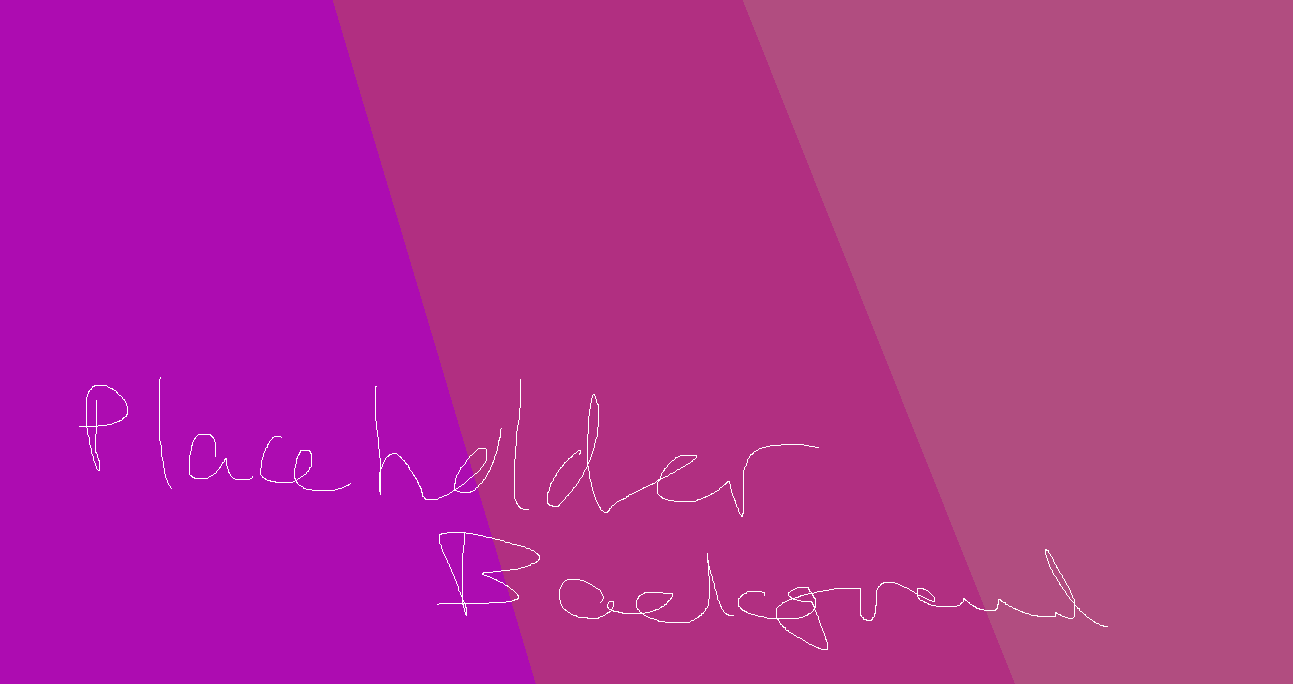
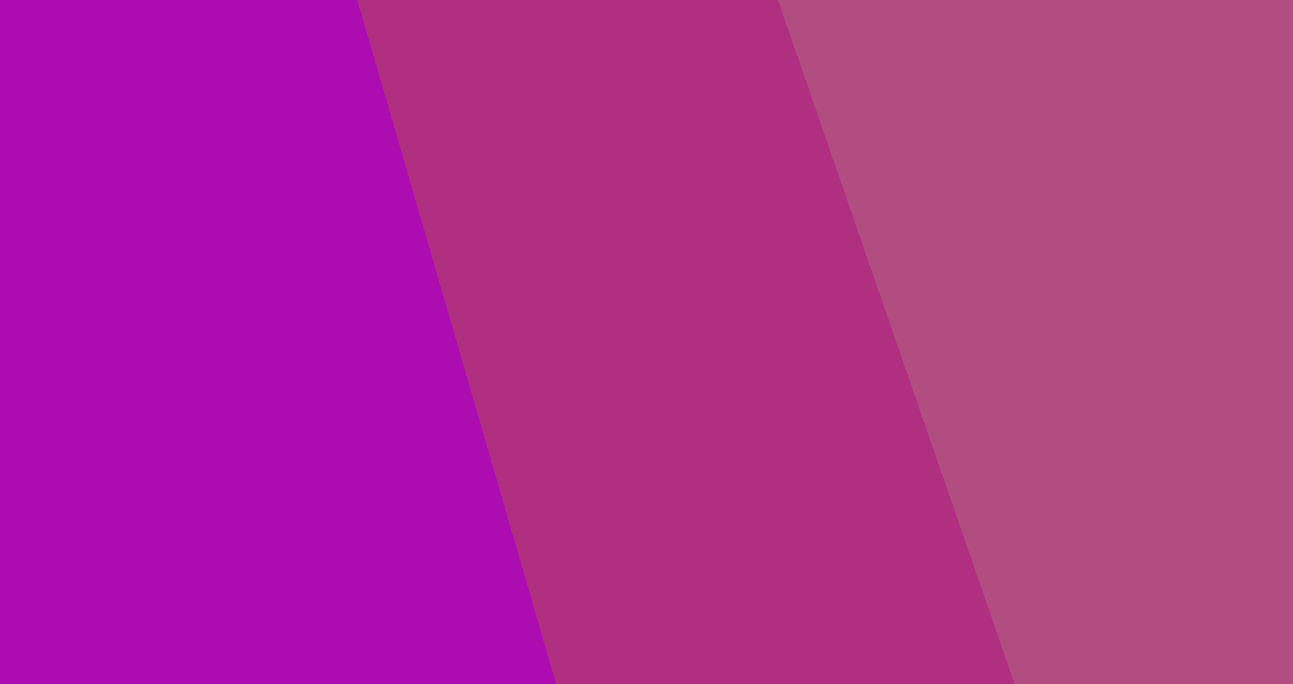
- Added hero section for main page - Removed drawings from placeholder background

diff --git a/src/styles/Hero.css b/src/styles/Hero.css
@@ -1,0 +1,94 @@
+.hero {
+    display: flex;
+    justify-content: space-between;
+    align-items: center;
+    padding: 10%;
+    color: white;
+    height: 100vh;
+    cursor: default;
+  }
+  
+.hero-content {
+    max-width: 50%;
+}
+
+.hero h1 {
+    font-size: 40px;
+    margin-bottom: 20px;
+}
+
+.hero h1 span {
+    display: block;
+    font-size: 64px;
+    color: #fb61c8; 
+}
+
+.hero p {
+    font-size: 20px;
+    margin-bottom: 40px;
+}
+
+.hero-buttons {
+    margin-bottom: 40px;
+    display: flex;
+    gap: 20px;
+}
+
+.btn {
+    font-size: 20px;
+    padding: 10px 20px;
+    border: none;
+    border-radius: 10px;
+    cursor: pointer;
+    transition: background 0.3s ease;
+}
+
+.btn-explore-2d {
+    background-color: #585ad8;
+    color: white;
+}
+
+.btn-explore-2d:hover {
+    background-color: #4043e0;
+}
+
+.btn-explore-3d {
+    background-color: #585ad8; 
+    color: white;
+}
+
+.btn-explore-3d:hover {
+    background-color: #4043e0;
+}
+
+.hero-info p {
+    font-size: 16px;
+    margin: 5px 0;
+}
+
+.hero-image {
+    display: flex;
+    flex-direction: column;
+    align-items: center;
+    max-width: 40%;
+}
+
+.hero-image img {
+    max-width: 100%;
+}
+
+.hero-stats {
+    display: flex;
+    flex-direction: column;
+    margin-top: 20px;
+}
+
+.stat h2 {
+    font-size: 22px;
+    margin-bottom: 5px;
+}
+
+.stat p {
+    font-size: 15px;
+}
+

diff --git a/src/components/Hero.tsx b/src/components/Hero.tsx
@@ -1,0 +1,43 @@
+import '../styles/Hero.css';
+
+const Hero = () => {
+  return (
+    <section className="hero">
+        <div className="hero-content">
+            <h1>
+                Interact<br />
+                <span>Model, and Create.</span>
+            </h1>
+
+            <p>Explore the world of two-dimensional and three-dimensional intersecting polytopes.</p>
+
+            <div className="hero-buttons">
+                <button className="btn btn-explore-2d">Explore 2D</button>
+                <button className="btn btn-explore-3d">Explore 3D</button>
+            </div>
+
+            <div className="hero-info">
+                <p>Developed for FIT3161/FIT3162</p>
+                <p>Computer Science Project</p>
+            </div>
+
+        </div>
+
+        <div className="hero-stats">
+            <div className="stat">
+                <h2>69K+</h2>
+                <p>Users</p>
+            </div>
+
+            <div className="stat">
+                <h2>4</h2>
+                <p>Developers</p>
+            </div>
+            
+        </div>
+
+    </section>
+  );
+};
+
+export default Hero;

diff --git a/src/App.tsx b/src/App.tsx
@@ -1,10 +1,12 @@
 import Navbar from './components/Navbar';
+import Hero from './components/Hero';
 
 function App() {
 
   return (
     <div>
     <Navbar />
+    <Hero />
   </div>
   )
 }
